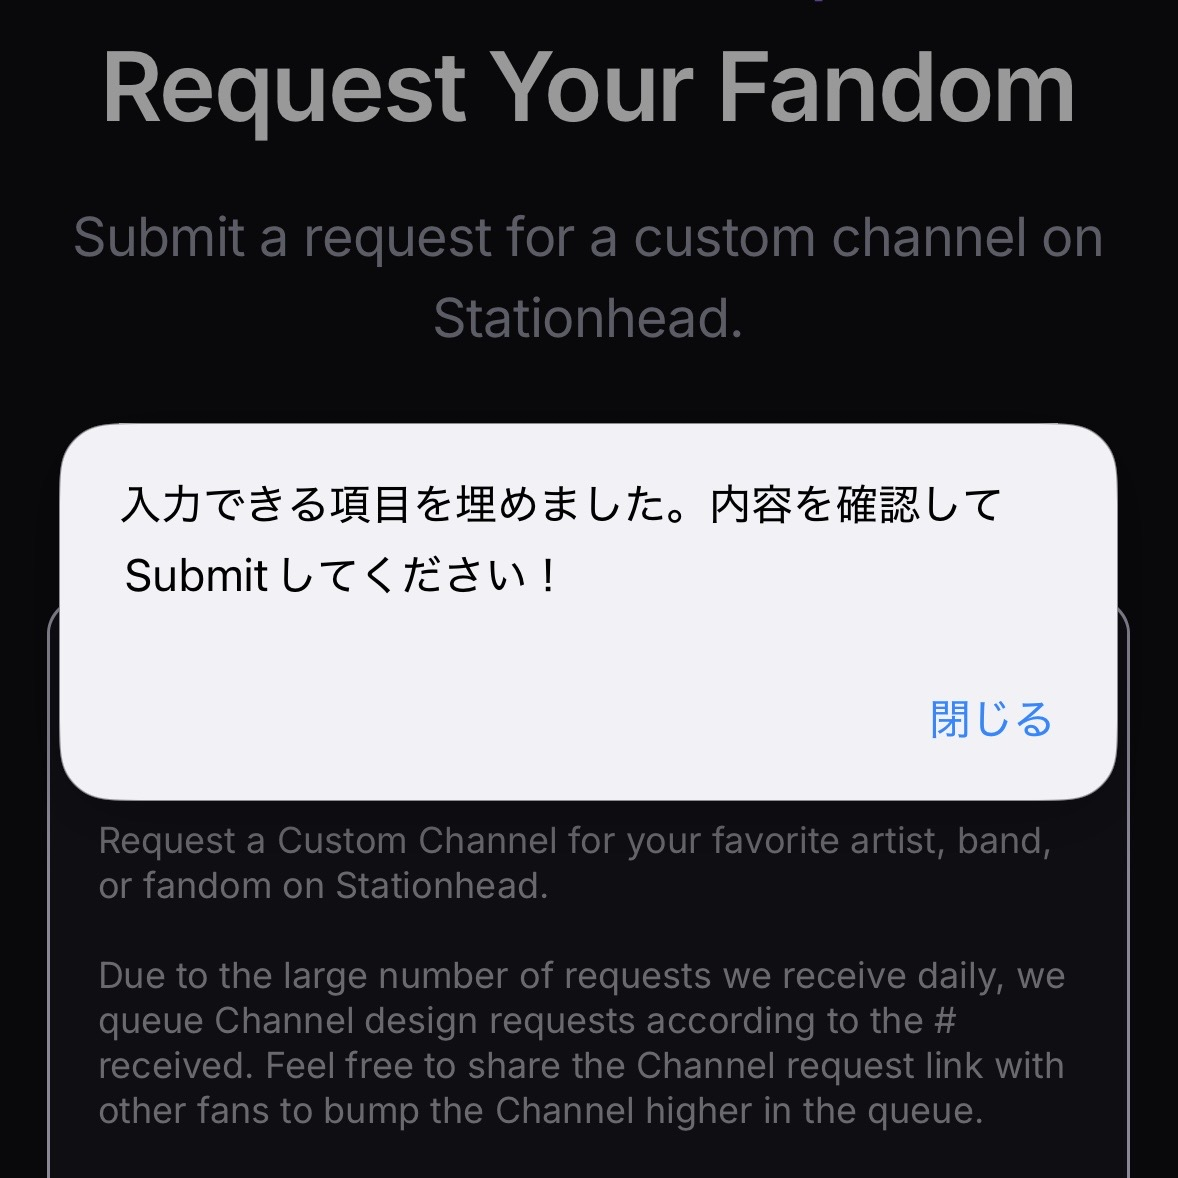
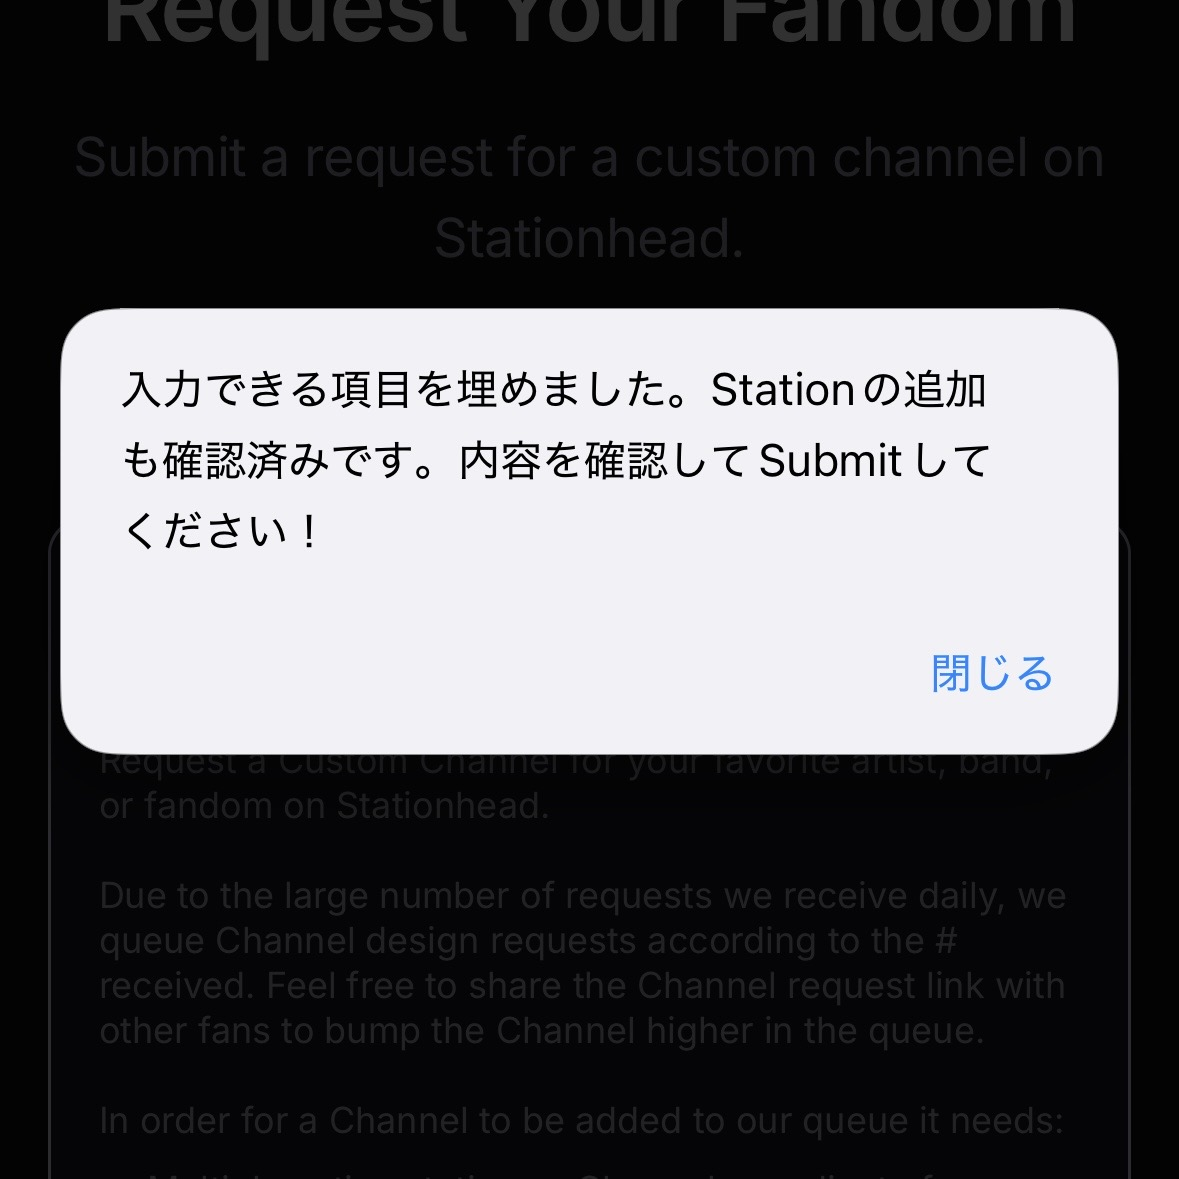
Add files via upload

diff --git a/fan-channel-setup.html b/fan-channel-setup.html
@@ -31,7 +31,7 @@ details{margin-top:10px;border:1px solid var(--line);border-radius:14px;backgrou
 <strong>③ 海外ファンとの交流</strong><div class="reasonText">Snow Man has fans not only in Japan but also around the world. A dedicated fan channel would create a welcoming space where Japanese and international fans can connect, enjoy Snow Man’s music together, and support the group through Stationhead.</div>
 <div class="field" style="margin-top:14px"><label for="customReason">自分で書いた申請理由を使いたい場合</label><textarea id="customReason" placeholder="ここに英語の申請理由を書いてください。空欄なら、実行時に上の3つから選びます。"></textarea><div class="hint">ここに文章を入れて申請ボタンを作ると、その文章もブックマークに組み込まれます。実行時の3択は出ません。</div></div>
 </div></details></section>
-<section class="card"><h2>② 使っている端末</h2><div class="choicegrid"><button class="choice active" data-device="iphone"><span class="emoji">🍎</span>iPhone / iPad</button><button class="choice" data-device="android"><span class="emoji">🤖</span>Android</button></div></section>
+<section class="card"><h2>② 使っている端末</h2><div class="choicegrid"><button class="choice active" data-device="iphone"><span class="emoji">🍎</span>iPhone Safari / iPad Safari</button><button class="choice" data-device="android"><span class="emoji">🤖</span>Android</button></div></section>
 <section class="card"><h2>③ ブックマーク、使ったことある？</h2><div class="modegrid"><button class="mode active" data-mode="easy"><strong>よく分からない</strong><span>ゆっくり説明</span></button><button class="mode" data-mode="fast"><strong>使ったことある</strong><span>最短手順</span></button></div></section>
 <section class="card"><div class="pill">最初の1回だけ</div><h2>このページを「申請ボタン」に変えます</h2>
 <div id="iphoneEasy"><div class="steps">
@@ -41,7 +41,7 @@ details{margin-top:10px;border:1px solid var(--line);border-radius:14px;backgrou
 <img class="helpShot narrow" src="iphone-step1-add-bookmark.jpeg" alt="Safariの共有メニューでブックマークに追加を選ぶ画面">
 <div class="mini">ブックマーク名は「Snow Manファンチャンネル申請」のままでOKです。</div>
 </div></div></div>
-<div class="step"><div class="num">2</div><div><h3>下の「あなた専用の申請ボタンをコピー」を押す</h3><p>ID・メール、必要なら自作の申請理由も入力してから押してください。</p></div></div>
+<div class="step"><div class="num">2</div><div><h3>この画面の下の方にある「あなた専用の申請ボタンをコピー」を押す</h3><p>ID・メール、必要なら自作の申請理由も入力してから押してください。</p></div></div>
 <div class="step"><div class="num">3</div><div><h3>保存したブックマークを長押し</h3><p>Safariの<strong>本のマーク → ブックマーク</strong>を開き、<strong>「Snow Manファンチャンネル申請」を長押し → 「編集」</strong>。</p>
 <img class="helpShot narrow" src="iphone-step3-longpress-edit.jpeg" alt="保存したブックマークを長押しして編集を選ぶ画面">
 </div></div>
@@ -59,10 +59,12 @@ details{margin-top:10px;border:1px solid var(--line);border-radius:14px;backgrou
 <img class="helpShot narrow" src="iphone-step5-stationhead-bookmark.jpeg" alt="Stationhead申請ページでSafariのブックマークを開く画面">
 <p style="margin-top:10px"><strong>「Snow Manファンチャンネル申請」</strong>を1回タップします。</p>
 <img class="helpShot compact" src="iphone-step5-bookmark-list.jpeg" alt="Snow Manファンチャンネル申請のブックマーク">
-<div class="mini">用意された理由を使う場合は3つのボタンが出ます。理由を選んだあとはStationを1局ずつ確認しながら追加します。「Stationを追加しています」の表示が消えるまで画面を触らずお待ちください。自作理由を登録した場合は、その文章でそのまま入力が始まります。</div>
+<div class="mini">用意された理由を使う場合は3つのボタンが出ます。自作理由を登録した場合は、選択画面を経ずに入力が始まります。続いて「Stationを追加しています」と表示され、7局を順番に追加します。表示が消えるまで画面を触らずお待ちください。</div>
 <div class="shotGrid">
 <div><img class="helpShot" src="iphone-step5-reason-picker.jpeg" alt="申請理由を3つから選ぶ画面"><div class="shotCaption">例文を使う場合は、申請時に1つ選びます。</div></div>
-<div><img class="helpShot" src="iphone-step5-complete.jpeg" alt="入力完了メッセージ"><div class="shotCaption">この画面が出たら、内容を確認してSubmitします。</div></div>
+<div><img class="helpShot" src="iphone-step5-progress.jpeg" alt="Stationを追加していますの進行画面"><div class="shotCaption">7局を追加中です。画面を触らずに待ちます。</div></div>
+<div><img class="helpShot" src="iphone-step5-complete.jpeg" alt="Station追加を確認した入力完了メッセージ"><div class="shotCaption">「閉じる」を押して、入力内容と追加されたStationを確認します。</div></div>
+<div><img class="helpShot" src="iphone-step5-submit.jpeg" alt="7局とSubmit Requestボタン"><div class="shotCaption">7局と入力内容を確認したら、自分で「Submit Request」を押します。ここで申請が送信されます。</div></div>
 </div>
 </div></div>
 </div></div>
@@ -76,7 +78,7 @@ details{margin-top:10px;border:1px solid var(--line);border-radius:14px;backgrou
 
 <div class="step"><div class="num">2</div><div>
 <h3>申請ボタンをコピー</h3>
-<p>ID・メール、必要なら自作理由も入力してから、下の<strong>「あなた専用の申請ボタンをコピー」</strong>を押します。</p>
+<p>ID・メール、必要なら自作理由も入力してから、<strong>この画面の下の方にある「あなた専用の申請ボタンをコピー」</strong>を押します。</p>
 </div></div>
 
 <div class="step"><div class="num">3</div><div>
@@ -105,7 +107,7 @@ details{margin-top:10px;border:1px solid var(--line);border-radius:14px;backgrou
 <div><img class="helpShot" src="android-step5-request-page.png" alt="Stationheadの申請ページをChromeで開いた画面"></div>
 <div><img class="helpShot" src="android-step5-bookmark-search.png" alt="ChromeのアドレスバーからSnow Manファンチャンネル申請のブックマークを選ぶ画面"></div>
 </div>
-<div class="mini">例文を使う場合は、このあと申請理由を1つ選びます。Stationは1局ずつ追加できたことを確認しながら進みます。<strong>「Stationを追加しています」の表示が消えるまで画面を触らずお待ちください。</strong></div>
+<div class="mini">例文を使う場合は、このあと申請理由を1つ選びます。自作理由なら選択画面は出ません。続いて「Stationを追加しています」と進行状況が表示され、7局を順番に追加します。<strong>表示が消えるまで画面を触らずお待ちください。</strong>入力完了のメッセージが出たら閉じます。</div>
 
 <div class="shotGrid">
 <div><img class="helpShot" src="android-step5-complete.png" alt="Androidで入力完了のメッセージが表示された画面"><div class="shotCaption">完了メッセージが出たらOKをタップ。</div></div>

diff --git a/fan-channel-guide.html b/fan-channel-guide.html
@@ -21,21 +21,23 @@ details{margin-top:10px;border:1px solid var(--line);border-radius:14px;backgrou
 </style></head><body>
 <main class="wrap">
 <section class="hero"><div class="kicker">SNOW MAN × STATIONHEAD</div><h1>Snow Manファンチャンネル申請 📮</h1><p class="lead">申請入力をラクにするブックマークを、最初の1回だけ設定します。<br>このページは説明用なので、あとからいつでも見返せます。</p></section>
-<section class="card"><div class="pill">まずはここから</div><h2>設定は別ページで行います</h2><p class="lead" style="text-align:left">説明ページそのものを書き換えてしまわないように、登録作業だけ別ページに分けています。</p><a class="linkbtn" href="fan-channel-setup.html"><button class="bigbtn" style="margin-top:14px">申請ボタンの設定ページを開く</button></a><div class="callout">設定ページには、ID・メール入力、申請理由の確認・自由入力、<strong>iPhone / iPad・Androidそれぞれの画像つき登録手順</strong>を載せています。</div></section>
+<section class="card"><div class="pill">まずはここから</div><h2>設定は別ページで行います</h2><p class="lead" style="text-align:left">説明ページそのものを書き換えてしまわないように、登録作業だけ別ページに分けています。</p><a class="linkbtn" href="fan-channel-setup.html"><button class="bigbtn" style="margin-top:14px">申請ボタンの設定ページを開く</button></a><div class="callout">設定ページには、ID・メール入力、申請理由の確認・自由入力、<strong>iPhone Safari / iPad Safari・Androidそれぞれの画像つき登録手順</strong>を載せています。</div></section>
 <section class="card"><h2>ブックマークって？</h2><p class="lead" style="text-align:left">よく見るページを保存しておく機能です。今回はその仕組みを使って、Stationheadの申請欄をまとめて入力する「申請ボタン」を作ります。</p></section>
 <section class="card"><h2>設定の流れ</h2><div class="steps">
 <div class="step"><div class="num">1</div><div><h3>設定ページを開く</h3><p>Stationhead IDと、<strong>Stationheadの登録時に使っているメールアドレス</strong>を入力します。</p></div></div>
 <div class="step"><div class="num">2</div><div><h3>申請理由を確認</h3><p>登録ページでは申請理由の例文を確認できます。例文を使う場合は、実際の申請時に3つから選びます。自分で書いた文章を使いたい場合だけ、登録ページであらかじめ入力します。</p></div></div>
 <div class="step"><div class="num">3</div><div>
-<h3>設定ページをブックマークして編集</h3>
-<p>共有メニューから<strong>「ブックマークに追加」</strong>を選んで保存します。そのあと、保存した「Snow Manファンチャンネル申請」を長押し → 編集。アドレス欄をコピーした申請ボタンに貼り替えます。</p>
+<h3>iPhone Safariで設定ページをブックマークして編集</h3>
+<p>共有メニューから<strong>「ブックマークに追加」</strong>を選んで保存します。設定ページの下の方にある<strong>「あなた専用の申請ボタンをコピー」</strong>を押し、保存した「Snow Manファンチャンネル申請」を長押し → 編集。アドレス欄に貼り替えます。</p>
 <img class="helpShot narrow" src="iphone-step1-add-bookmark.jpeg" alt="ブックマークに追加を選ぶ画面">
 <img class="helpShot narrow" src="iphone-step3-longpress-edit.jpeg" alt="長押しして編集する画面">
 </div></div>
-<div class="step"><div class="num">4</div><div><h3>Stationheadの申請ページで実行</h3><p>申請ページを開いたまま、Safariのブックマークから「Snow Manファンチャンネル申請」をタップします。</p>
+<div class="step"><div class="num">4</div><div><h3>Stationheadの申請ページで実行</h3><p>申請ページを開いたまま、Safariのブックマークから「Snow Manファンチャンネル申請」をタップします。Stationの追加中は画面を触らずに待ち、完了メッセージが出たら内容を確認します。</p>
 <div class="shotGrid">
 <div><img class="helpShot" src="iphone-step5-reason-picker.jpeg" alt="申請理由を選ぶ画面"><div class="shotCaption">例文を使う場合は、その場で1つ選択。</div></div>
-<div><img class="helpShot" src="iphone-step5-complete.jpeg" alt="入力完了画面"><div class="shotCaption">入力後は内容を確認してSubmit。</div></div>
+<div><img class="helpShot" src="iphone-step5-progress.jpeg" alt="Station追加の進行画面"><div class="shotCaption">7局を順番に追加中。画面を触らずに待ちます。</div></div>
+<div><img class="helpShot" src="iphone-step5-complete.jpeg" alt="入力完了画面"><div class="shotCaption">「閉じる」を押して内容を確認。</div></div>
+<div><img class="helpShot" src="iphone-step5-submit.jpeg" alt="Submit Requestボタン"><div class="shotCaption">確認後、自分で「Submit Request」を押して送信。</div></div>
 </div>
 </div></div>
 </div></section>
